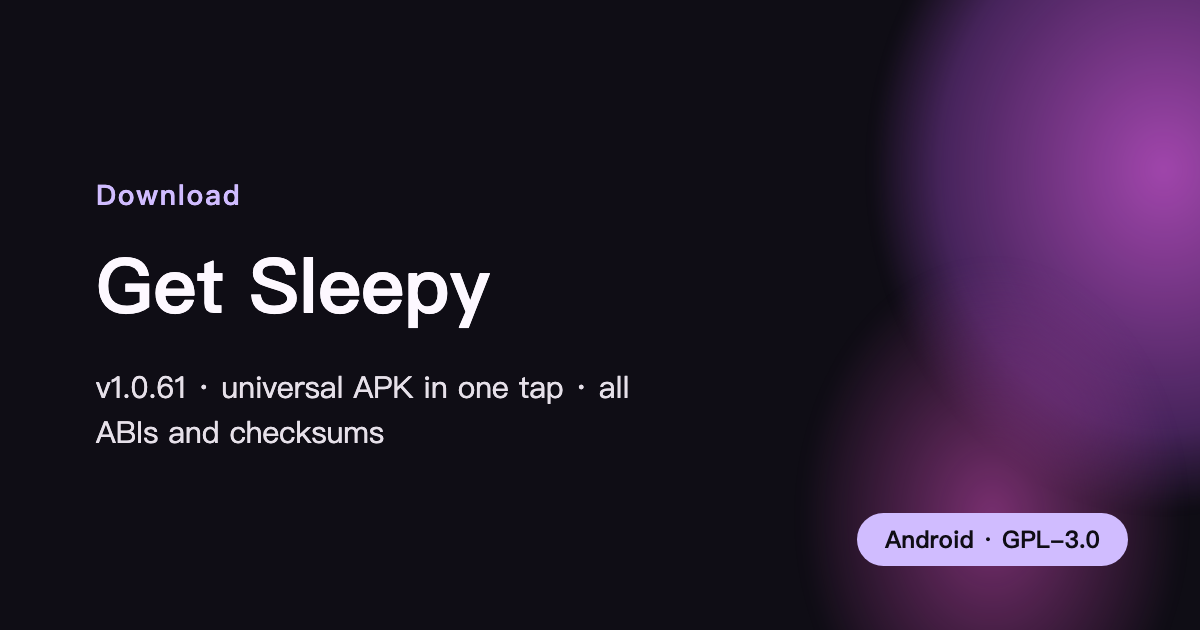
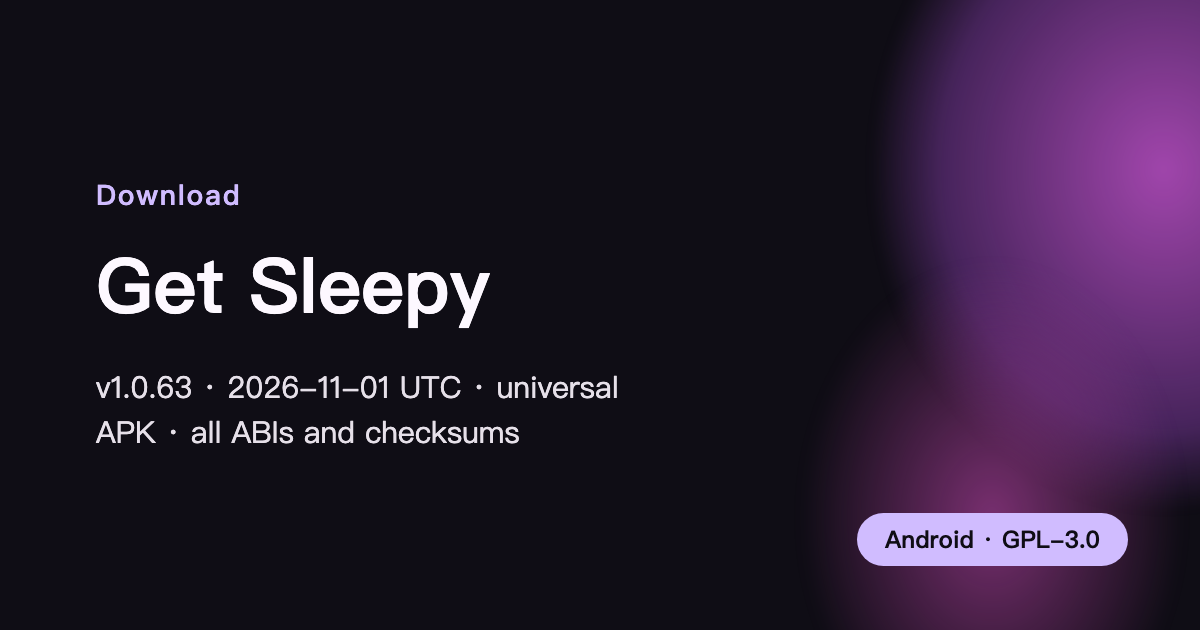
docs(site): 对齐事实来源与双语社交卡片
## 变更

记录v1.0.63公开事实的源码来源和快照刷新方式，修正网站开发文档的版本与生成流程说明。

八张中英文社交图片由同一生成器读取审核产品版本与目录统计，不再保留v1.0.61或348条等旧文字。图片延续现有版式，中文首页标题避免孤字换行。数据与FAQ普通构建保持可重现，显式刷新选择固定发布版本。

## 验证

准确提交树通过Astro检查、完整构建和480项测试。八张图片均重新生成并逐张核对，git diff --check通过。

本PR的八个PNG是同一生成器的派生产物，与来源文档一并更新；没有品牌替换或无关产品功能变更。

Changed region(s): [[0.0925, 0.6635, 0.4317, 0.7238], [0.1233, 0.573, 0.5242, 0.6333]]

diff --git a/docs/public-docs-v1.0.63-evidence.md b/docs/public-docs-v1.0.63-evidence.md
@@ -1,0 +1,54 @@
+# Android v1.0.63 公开文档事实来源
+
+产品源码固定为 [v1.0.63](https://github.com/lingion/sleepy/tree/v1.0.63)，提交 `b16aa84d11c250acdf644cd8b7812ab27d03dc6a`。发布时间为 2026-11-01T17:06:44Z，文档核对日期为 2026-11-02。此表记录 FAQ、llms.txt 与官网共同事实的来源，不将后续 main 改动归入已发布 APK。
+
+## 功能对账
+
+| 公开事实 | 发布源码中的证据 | 文档处理 |
+| --- | --- | --- |
+| Android最低API26，target/compile37，独立debug包名 | app/build.gradle.kts | 保留，区分图形API限制 |
+| 五种界面语言 | app/build.gradle.kts localeFilters及values资源 | 补充，不与网站中英混同 |
+| 多表、冲突、作息、日期和长课间 | 数据实体、ConflictLayoutEngine、TimeSlotEditor、课表及周视图 | 保留原有说明并限定范围 |
+| 撤回默认5步，可配置，进程内历史 | data/undo/UndoManager.kt；data/undo/LabUndoDepthContractTest.kt | 修正最近一次的旧说法，说明生命周期 |
+| 单次调整、快速加课、500ms边缘翻周 | SingleOccurrenceCourseForm.kt、QuickAddCourse.kt、CourseOccurrenceFloatDragTest.kt | 补充，不包含后续拖拽修复 |
+| 幽灵滑杆原值参考与表头时间对齐 | 滑杆几何/原值测试、TimeSlotEditor及节次表头设置 | 补充，不误称第二个生效区间 |
+| 三种课程配色及主题动态色 | util/CourseColorUtil.kt、主题偏好与主题设置 | 修正所有模式黄金角的说法 |
+| API33着色器和旧设备限制 | liquidglass/LiquidGlassEffect.kt、LiquidGlassNavigationBar.kt | 补充兼容边界，不宣称后续修复已发布 |
+| Android13主题图标 | monochrome资源与图标契约测试 | 与Android12应用动态色分别说明 |
+| WakeUP在线口令与第三方联网 | data/jw/WakeUpShareClient.kt、WakeUpShareProtocol.kt、ImportSheet.kt | 补充，区分离线格式兼容 |
+| 原生分享文本、WakeUp JSON、ICS | ExportScreen.kt、SleepyNativeExporter、导入导出测试 | 修正WakeUp分享文本导出的旧说法 |
+| 日历导出、备份恢复、可选权限 | Calendar导出实现、备份服务、Manifest与权限调用点 | 保留，不承诺双向同步或完整权限清单 |
+| 五家族13种widget配置 | AndroidManifest.xml及res/xml的widget配置，Canvas/RemoteViews渲染器 | 保留，区分OriginOS桌面与原子岛提醒 |
+| 提醒合并多表、厂商实况限制 | notification调度、每日议程与docs/vendors/oppo-coloros-fluid-cloud.md | 保留正式版行为，不混入后续仅当前课表变更 |
+| 本机控制台可读写 | console/DebugConsoleServer.kt、handlers/DataOpsHandlers.kt、docs/agent-debug-console/AGENT-SKILL.md | 修正只读误称，保留认证、回环和修改风险 |
+| 不需Sleepy账号，学校登录可能需要凭据 | 学校WebView导入与离线建表入口 | 修正无需学号的无条件表达 |
+| 本地存储仍有主动联网入口 | 教务、WakeUP口令、节假日、版本更新与导出实现 | 修正不经任何服务器的绝对说法 |
+| iOS与网页为独立发布范围 | 各仓库公开入口 | 删除未核实的完全同等能力承诺 |
+| 公开贡献指引 | 公开CONTRIBUTING和issue模板 | 删除私有维护约定，只保留公开可执行材料 |
+
+表中简短文件名均指 tag 内对应源码或测试，不代表实时运行认证。学校服务、厂商展示和旧设备效果仍需对应环境验证。
+
+## 目录口径
+
+对发布源码 `app/src/main/assets/schools.json` 按 `JwSchoolInfo` 状态归一：
+
+| 口径 | 数量 |
+| --- | ---: |
+| 全部目录记录 | 4140 |
+| supported | 350 |
+| grad_supported | 2 |
+| 已配置基准合计 | 352 |
+| unverified | 2480 |
+| grad_unverified | 48 |
+| 未验证合计 | 2528 |
+| pending | 1007 |
+| grad_pending | 253 |
+| 待接入合计 | 1260 |
+
+348条省略状态字段，按兼容规则包含在supported内，不能另加。目录身份以catalogId区分。48个非空type键是快照内登记的类型数，不等于48种均经过在线验证的协议。264个拾光来源院校与43个最终sg_asset通路记录是不同口径。
+
+## 官网消费面
+
+官网中文FAQ使用与本仓FAQ.md相同的审核内容，英文逐节逐问翻译，生成同一份faq.json供网页、机器JSON和FAQPage使用。学校目录、首页状态数字、llms和社交卡片使用同一发布快照。下载版本、文件名、字节数和SHA-256来自对应GitHub Release资产，而不是本机构建文件或版本号猜测。
+
+官网保留既有视觉结构；源数据中没有可靠省份证据的记录明确归为未知，不丢条目，不把收录条数宣传成全部可直连。后续版本更新应同步产品tag、源码SHA、快照、翻译和生成内容，不能只修改页脚版本号。

diff --git a/README.md b/README.md
@@ -1,7 +1,7 @@
 # sleepy-site
 
 <p align="center">
-  <img src="https://img.shields.io/badge/Astro-5.x-orange?style=flat-square&logo=astro" alt="Astro">
+  <img src="https://img.shields.io/badge/Astro-7.x-orange?style=flat-square&logo=astro" alt="Astro">
   <img src="https://img.shields.io/badge/license-GPL--3.0-blue?style=flat-square" alt="License">
 </p>
 
@@ -23,7 +23,7 @@ npm run data         # 教务数据管线(release 快照 + schools 分组)
 
 ## 部署
 
-构建与部署走 GitHub Actions(`.github/workflows/deploy.yml`):push main 自动发布到 Cloudflare Pages,nightly 刷新 release 与教务数据快照。仓库需配置 secrets:`CLOUDFLARE_API_TOKEN`(Pages Edit 权限)与 `CLOUDFLARE_ACCOUNT_ID`。站点域名写在 `astro.config.mjs` 的 `site` 与 `src/i18n/ui.ts` 的 canonical 两处,换域同改。
+构建与部署走 GitHub Actions(`.github/workflows/deploy.yml`)：push main 自动发布到 Cloudflare Pages。nightly 刷新产品基线指定版本的 release 元数据，并从已审查的学校与 FAQ 快照重新生成页面；不会自动吸收 Android main 的未发布功能。学校与 FAQ 更新需要显式刷新、翻译和审查。仓库需配置 secrets:`CLOUDFLARE_API_TOKEN`(Pages Edit 权限)与 `CLOUDFLARE_ACCOUNT_ID`。站点域名写在 `astro.config.mjs` 的 `site` 与 `src/i18n/ui.ts` 的 canonical 两处,换域同改。
 
 ## 目录
 
@@ -32,6 +32,26 @@ npm run data         # 教务数据管线(release 快照 + schools 分组)
 - `src/data/` 构建期数据快照
 - `docs/` 设计契约与实施计划
 - `tests/` 产物级验收测试
+
+## 产品事实与快照
+
+当前产品基线由 `src/data/product-release.json` 记录 Android 发布 tag、源码 SHA、发布时间和审查日期。`schools.snapshot.json` 记录学校源快照及归组证据，普通页面构建不联网重取学校目录。4140 条目录分为已配置、未验证和待接入，数量不等于逐校在线验证。
+
+中文 FAQ 在 `fixtures/FAQ.md`，英文在 `scripts/faq-en.md`，生成 `src/data/faq.json` 后同时用于页面、机器 JSON 和 FAQPage 结构化数据。中文主稿与 Android 仓库 `FAQ.md` 保持一致；翻译必须逐节逐问对应。
+
+```sh
+node scripts/fetch-release.mjs --tag v1.0.63
+# 只有明确更新产品基线时才选其他 tag 或 latest。
+node scripts/fetch-faq.mjs --source /path/to/reviewed/FAQ.md
+node scripts/build-faq.mjs
+node scripts/build-schools.mjs
+node tools/make-og.mjs
+npm run check
+npm run build
+npm test
+```
+
+FAQ 也可用 `--ref` 指定审核过的完整提交 SHA；不能省略来源而静默抓取 main。学校刷新参数见 `scripts/fetch-schools.mjs`。八张社交图片需在快照更新后显式重生成，单独执行 Astro build 不会更新图片内文字。
 
 ## 许可
 
